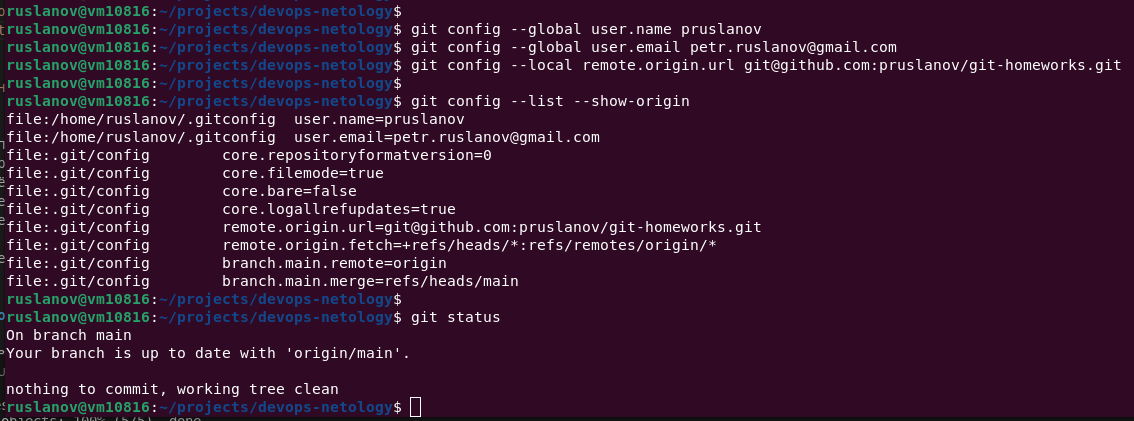
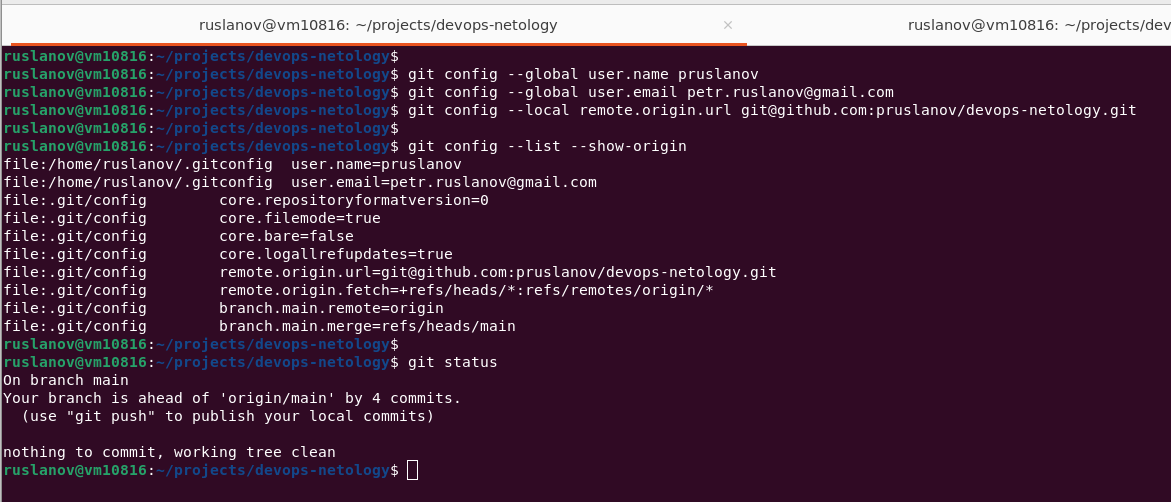
hw-git-01 Commit final

Changed region(s): [[0.0, 0.0, 1.0, 1.0]]

diff --git a/git-01-vcs.md b/git-01-vcs.md
@@ -48,7 +48,7 @@
 ```bash
 git config --global user.name pruslanov
 git config --global user.email petr.ruslanov@gmail.com
-git config --local remote.origin.url git@github.com:pruslanov/git-homeworks.git
+git config --local remote.origin.url git@github.com:pruslanov/devops-netology.git
 git config --list --show-origin
 git status
 ```
